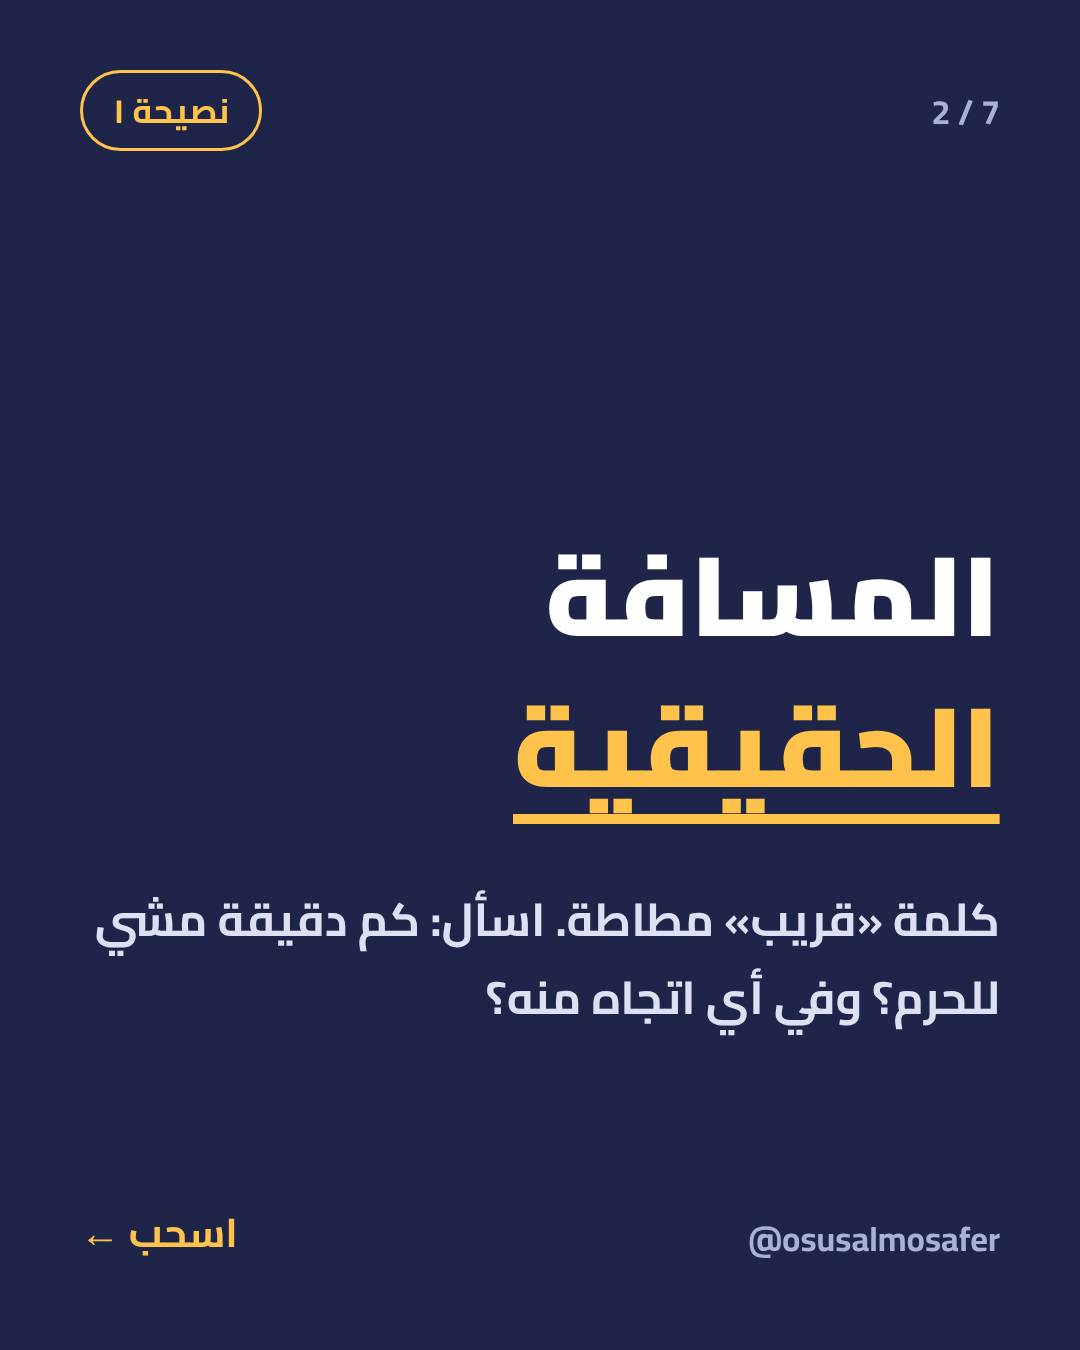
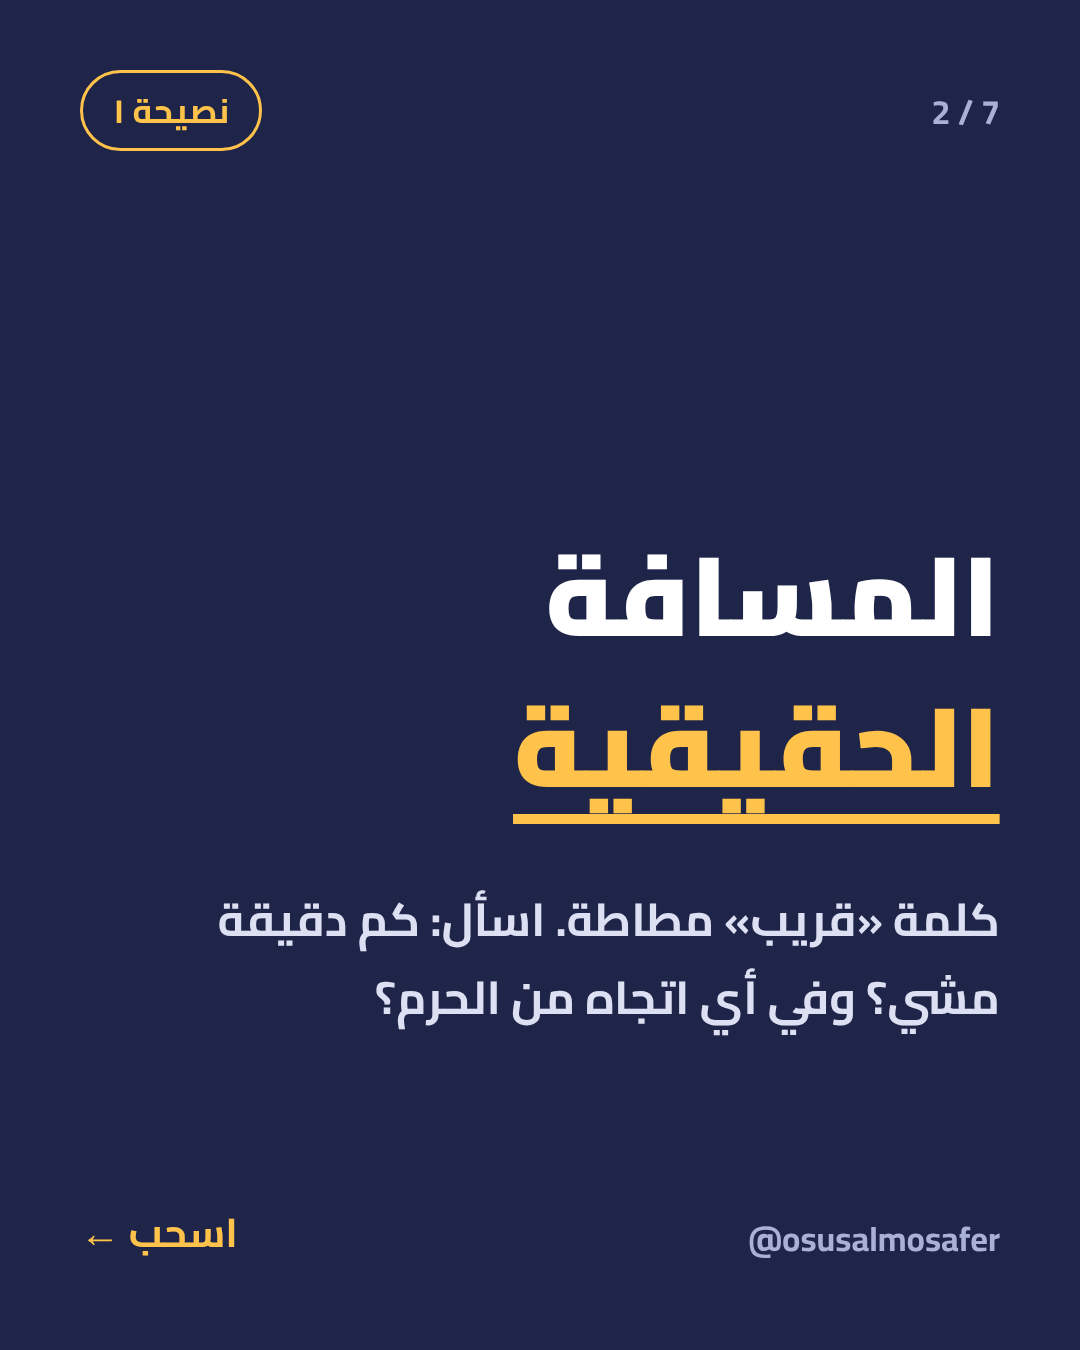
Carousel 2: wording edits on slides 2 and 4
Claude-Session: https://claude.ai/code/session_018nkkgV5L9WVzQYR2S6kDaX

Changed region(s): [[0.3361, 0.7156, 0.9167, 0.7778], [0.0917, 0.6533, 0.1833, 0.7156]]

diff --git a/carousel/carousel3.html b/carousel/carousel3.html
@@ -25,13 +25,13 @@ u{display:inline-block;white-space:nowrap;line-height:1.25;color:var(--ac);text-
 <div class="main"><h1>تحجز فندق بمكة؟ شيّك <u>٥ أشياء</u></h1><p class="sub">قبل لا تدفع ريال واحد</p></div>
 <div class="brand">@osusalmosafer</div><div class="cue">اسحب ←</div></section><section class="slide card " id="s2">
 <div class="counter">2 / 7</div><div class="pill">نصيحة ١</div>
-<div class="main"><h1>المسافة <u>الحقيقية</u></h1><p class="body">كلمة «قريب» مطاطة. اسأل: كم دقيقة مشي للحرم؟ وفي أي اتجاه منه؟</p></div>
+<div class="main"><h1>المسافة <u>الحقيقية</u></h1><p class="body">كلمة «قريب» مطاطة. اسأل: كم دقيقة مشي؟ وفي أي اتجاه من الحرم؟</p></div>
 <div class="brand">@osusalmosafer</div><div class="cue">اسحب ←</div></section><section class="slide card " id="s3">
 <div class="counter">3 / 7</div><div class="pill">نصيحة ٢</div>
 <div class="main"><h1>طريق <u>المشي</u></h1><p class="body">تأكد أنه مريح لكبار السن والأطفال، وما فيه طلعات صعبة.</p></div>
 <div class="brand">@osusalmosafer</div><div class="cue">اسحب ←</div></section><section class="slide card " id="s4">
 <div class="counter">4 / 7</div><div class="pill">نصيحة ٣</div>
-<div class="main"><h1>الغرفة <u>تكفيكم</u></h1><p class="body">تأكد أن عدد الأشخاص ونوع الغرفة في الحجز يناسبان عائلتك فعلاً، مو بس الحد الأقصى.</p></div>
+<div class="main"><h1>الغرفة <u>تكفيكم</u></h1><p class="body">تأكد أن عدد الأشخاص ونوع الغرفة في الحجز يناسبان عائلتك فعلاً.</p></div>
 <div class="brand">@osusalmosafer</div><div class="cue">اسحب ←</div></section><section class="slide card " id="s5">
 <div class="counter">5 / 7</div><div class="pill">نصيحة ٤</div>
 <div class="main"><h1>الخدمات <u>المشمولة</u></h1><p class="body">اسأل وش يشمل السعر: الإفطار، والمواصلات إن وفّرها الفندق. عشان ما تدفع على شي تحسبه مجاني.</p></div>

diff --git a/carousel/gen3.py b/carousel/gen3.py
@@ -1,8 +1,8 @@
 slides = [
  dict(kind="cover", label="حجز مكة", h="تحجز فندق بمكة؟ شيّك <u>٥ أشياء</u>", sub="قبل لا تدفع ريال واحد"),
- dict(kind="card", label="نصيحة ١", h="المسافة <u>الحقيقية</u>", body="كلمة «قريب» مطاطة. اسأل: كم دقيقة مشي للحرم؟ وفي أي اتجاه منه؟"),
+ dict(kind="card", label="نصيحة ١", h="المسافة <u>الحقيقية</u>", body="كلمة «قريب» مطاطة. اسأل: كم دقيقة مشي؟ وفي أي اتجاه من الحرم؟"),
  dict(kind="card", label="نصيحة ٢", h="طريق <u>المشي</u>", body="تأكد أنه مريح لكبار السن والأطفال، وما فيه طلعات صعبة."),
- dict(kind="card", label="نصيحة ٣", h="الغرفة <u>تكفيكم</u>", body="تأكد أن عدد الأشخاص ونوع الغرفة في الحجز يناسبان عائلتك فعلاً، مو بس الحد الأقصى."),
+ dict(kind="card", label="نصيحة ٣", h="الغرفة <u>تكفيكم</u>", body="تأكد أن عدد الأشخاص ونوع الغرفة في الحجز يناسبان عائلتك فعلاً."),
  dict(kind="card", label="نصيحة ٤", h="الخدمات <u>المشمولة</u>", body="اسأل وش يشمل السعر: الإفطار، والمواصلات إن وفّرها الفندق. عشان ما تدفع على شي تحسبه مجاني."),
  dict(kind="card", label="نصيحة ٥", h="التقييمات <u>الأخيرة</u>", body="اقرأ تقييمات آخر ٣ أشهر مو الأقدم، خصوصاً من ناس سافروا في نفس موسمك."),
  dict(kind="last", label="الخلاصة", h="احفظها قبل <u>حجزك</u> الجاي", body="أرسلها لمن يجهز لرحلة مكة. وإذا تبي نساعدك في اختيار الفندق، راسلنا."),
